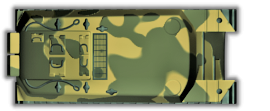
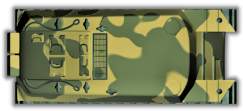
Work on Shell.

diff --git a/client/entities/shell.js b/client/entities/shell.js
@@ -3,21 +3,21 @@ import { Entity } from "./entity";
 // Global MatterJS Variables (to access its useful functions)
 var Body = Matter.Body;
 
-// Tank cannon sketch
-class Cannon extends Entity {
-    constructor(ss, ssData, fps, initPos) {
+class Shell extends Entity {
+    constructor(ss, ssData, fps, cannon, options) {
         super(
-            Bodies.rectangle(initPos.x, initPos.y, 50, 20, {
-                isStatic: false
+            Bodies.rectangle(cannon.body.x, cannon.body.y, 50, 20, {
+                isStatic: false,
+                isSensor: false
             }),
             false
         );
 
         // Properties of cannon
-        this.speed = 25;
-        this.type = "HE";
-        this.blastRadius = 100;
-        this.penetration = 2;
+        this.speed = options.speed;
+        this.type = options.type;
+        this.blastRadius = options.blastRadius;
+        this.penetration = options.penetration;
 
         // Variables used for rendering this object
         this.index = 0;
@@ -25,6 +25,8 @@ class Cannon extends Entity {
         this.timeTracker = 0;
         this.spriteSheetData = ssData;
         this.spriteSheet = ss;
+
+
     }
 
     renderThis(ctx) {
@@ -46,13 +48,13 @@ class Cannon extends Entity {
     }
 
     updateThis(keysDown, dt) {
-        if (keysDown && keysDown.KeyD == true) {
-
+        if (true) {
+            Body.applyForce(
+                this.body,
+                { x: this.body.position.x, y: this.body.position.y },
+                { x: 0.1, y: 0.1 }
+            );
         }
-        if (keysDown && keysDown.KeyA == true) {
-
-        }
-
         // Update index
         this.timeTracker += dt;
         let delay = 1 / this.framesPerSecond;

diff --git a/client/main.js b/client/main.js
@@ -14,7 +14,7 @@ addEventListener("load", function (e) {
     window.globals.images = {};
     window.globals.entities = [];
     window.globals.imagePaths = [
-        "./images_and_data/mSixTankBodyu.png",
+        "./images_and_data/mSixTankBody.png",
         "./images_and_data/mSixTankTurret.png",
     ];
     window.globals.clientSocket = io();     // Connect with server
@@ -91,7 +91,7 @@ addEventListener("load", function (e) {
                 );
                 // Create tank
                 var mSixTank = new Tank(
-                    window.globals.images["./images_and_data/mSixTankBodyu.png"],
+                    window.globals.images["./images_and_data/mSixTankBody.png"],
                     spriteSheetsData.mSixTankBodyData,
                     0,
                     client,
@@ -114,7 +114,7 @@ addEventListener("load", function (e) {
             );
             // Create tank
             var mSixTank = new Tank(
-                window.globals.images["./images_and_data/mSixTankBodyu.png"],
+                window.globals.images["./images_and_data/mSixTankBody.png"],
                 spriteSheetsData.mSixTankBodyData,
                 0,
                 clientData,

diff --git a/client/experiment.js b/client/experiment.js
@@ -63,15 +63,16 @@ addEventListener("load", function () {
 
     var ground = Bodies.rectangle(400, 400, 810, 60, { isStatic: true });
 
+    /*
     // Test 1 Compound Method
     Body.setCentre(boxA, { x: -50, y: 0 }, true);
     Body.setPosition(boxA, boxB.position);
     var compoundBody = Bodies.circle(400, 200, 100, {
-        parts: [boxA, boxB],
-        //vertices: [{ x: 0, y: 0 }, { x: 600, y: 600 }, { x: 600, y: 0 }, { x: 0, y: 600 }]
-    }); // TODO: get circle to collide with walls tomorrow.
+        parts: [boxA, boxB]
+    });
+    
 
-    /*
+    
     // Test 2 Constraint Method
     var con = Constraint.create({
         bodyA: boxA,
@@ -79,12 +80,13 @@ addEventListener("load", function () {
         stiffness: 1,
         length: 0
     });
+    */
 
     // Test 3 Composite Method
     var c = Composite.create({
         constraints: [con]
     });
-    */
+
 
     // add all of the bodies to the world
     Composite.add(engine.world, [compoundBody, ground]);
